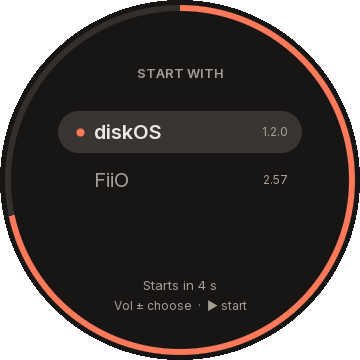
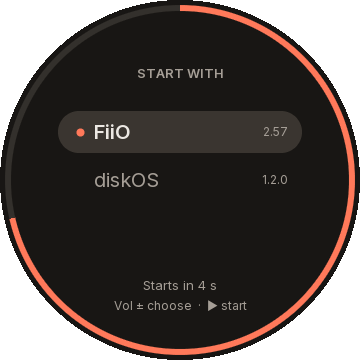
List FiiO's own interface first in the menu
The boot program offers stock first, then the installed interfaces, so the
menu does not look built around diskOS, a project of its own (owner,
2026-10-09). The default stays the last answer. The contract, test_boot and
menu_guest.py (which finds rows by their place on the screen) follow, and the
README's pictures show FiiO first and chosen.

Claude-Session: https://claude.ai/code/session_01Uk4XSRM8nsUCMZsZm2gSii

diff --git a/tests/integration/menu_guest.py b/tests/integration/menu_guest.py
@@ -127,12 +127,13 @@ def run(menu, output):
     status = asking()
     first = frame('after-play')
     choices = bg.guest_json('/run/disc-boot/ui/choices.json')
-    assert [e['ui'] for e in choices['entries']] == [ONE, TWO, 'stock'] and choices['default'] == ONE, choices
-    assert pixel(first, 70, 132) == (0x3a, 0x35, 0x30), 'the default, in the first row, in the pill'
+    # FiiO's own first (owner, 2026-10-09), then the UIs; the default is the first UI installed.
+    assert [e['ui'] for e in choices['entries']] == ['stock', ONE, TWO] and choices['default'] == ONE, choices
+    assert pixel(first, 70, 180) == (0x3a, 0x35, 0x30), 'the default, in the second row, in the pill'
     buttons.pulse(0xfc)
     time.sleep(1.5)
     moved = frame('volume-down')
-    assert pixel(moved, 70, 180) == (0x3a, 0x35, 0x30) and pixel(moved, 70, 132) != (0x3a, 0x35, 0x30), 'the pill moved down'
+    assert pixel(moved, 70, 228) == (0x3a, 0x35, 0x30) and pixel(moved, 70, 180) != (0x3a, 0x35, 0x30), 'the pill moved down'
     # After a start with Play the menu takes no Play gesture in its first 2 s (the recovery's own
     # release, reported when the key is let go): this Play comes after them.
     time.sleep(1.0)
@@ -154,7 +155,7 @@ def run(menu, output):
     assert choices['default'] == TWO, choices
     counting = frame('countdown')
     assert pixel(counting, 352, 180) == (0xff, 0x79, 0x5a), 'the ring runs down from the right'
-    assert pixel(counting, 70, 180) == (0x3a, 0x35, 0x30), 'the last answer, in the second row, in the pill'
+    assert pixel(counting, 70, 228) == (0x3a, 0x35, 0x30), 'the last answer, in the third row, in the pill'
     # The player starts 2 s after the menu and waits for its choice.
     waited = soon(lambda: run_json('ui/player.json'), lambda p: p['launch'] in ('waiting', 'package'), 'the player starts', 10)
     assert waited['launch'] == 'waiting', waited
@@ -165,11 +166,11 @@ def run(menu, output):
     player = bg.wait(lambda: bg.guest_json('/run/disc-boot/ui/player.json'), lambda p: p['launch'] == 'package', 'the player after the choice', 120)
     assert bg.pair_restarts() == restarts, ('stock restarted the pair', restarts, bg.pair_restarts())
     bg.step('the countdown starts the last answer', choices=choices, choice=choice, player=player, ui=ui)
-    # 3. A touch on the first row picks it, away from the default.
+    # 3. A touch on the first UI's row (the second, under FiiO's) picks it, away from the default.
     bg.power('off')
     booted = power_on()
     asking()
-    touch.tap(150, 132)
+    touch.tap(150, 180)
     booted()
     ui = bg.ui_runs(ONE)
     choice = bg.guest_json('/run/disc-boot/ui/choice.json')

diff --git a/device/boot/boot.c b/device/boot/boot.c
@@ -543,20 +543,22 @@ static int decide_ui(int consume_next) {
     return c.menu || strcmp(c.ui, "stock");
 }
 
-/* What the menu offers: every installed ui package (its title, or its name) and stock's UI with
-   the firmware profile's version, with this boot's default. */
+/* What the menu offers: stock's UI first, with the firmware profile's version (owner, 2026-10-09:
+   FiiO's own interface leads, the packages are additions to it), then every installed ui package
+   (its title, or its name), with this boot's default. */
 static void write_choices(const ui_choice *c) {
     char p[PATH_MAX], buf[SMALL_FILE], version[80], title[48];
     ui_entry list[MAX_UIS];
     int count = list_uis(list, MAX_UIS);
-    size_t o = (size_t)snprintf(buf, sizeof(buf), "{\"schema\":1,\"default\":\"%s\",\"entries\":[", c->ui);
+    size_t o = (size_t)snprintf(buf, sizeof(buf), "{\"schema\":1,\"default\":\"%s\",\"entries\":[{\"ui\":\"stock\",\"version\":\"%s\"}",
+                                c->ui, profile);
     for (int k = 0; k < count && o < sizeof(buf); k++) {
         json_str(version, sizeof(version), list[k].version);
         json_str(title, sizeof(title), list[k].title[0] ? list[k].title : list[k].name);
-        o += (size_t)snprintf(buf + o, sizeof(buf) - o, "{\"ui\":\"%s\",\"title\":%s,\"version\":%s,\"confirmed\":%s},",
+        o += (size_t)snprintf(buf + o, sizeof(buf) - o, ",{\"ui\":\"%s\",\"title\":%s,\"version\":%s,\"confirmed\":%s}",
                               list[k].name, title, version, list[k].confirmed ? "true" : "false");
     }
-    if (o < sizeof(buf)) o += (size_t)snprintf(buf + o, sizeof(buf) - o, "{\"ui\":\"stock\",\"version\":\"%s\"}]}\n", profile);
+    if (o < sizeof(buf)) o += (size_t)snprintf(buf + o, sizeof(buf) - o, "]}\n");
     if (o >= sizeof(buf)) return;
     bpath(p, RUN_DIR "/ui/choices.json");
     write_atomic(p, buf, o, 0644);

diff --git a/tests/conformance/test_boot.py b/tests/conformance/test_boot.py
@@ -891,7 +891,7 @@ exit 0
         self.assertEqual(self.runs(), ['menu'])
         offered = json.loads((self.root/'out/choices.json').read_text())
         self.assertEqual(offered['default'], 'alpha')
-        self.assertEqual([e['ui'] for e in offered['entries']], ['alpha', 'beta', 'stock'])
+        self.assertEqual([e['ui'] for e in offered['entries']], ['stock', 'alpha', 'beta'], 'FiiO\'s own first')
         # A player already ran in this boot (it runs the watchdog): stock's player starts beside the
         # menu at once, never a package's launcher while the choice is open.
         (self.run_dir/'player-ran').write_text('\n')
@@ -942,9 +942,9 @@ exit 0
         self.assertEqual(self.runs(), ['menu', 'beta'], self.boot_log())
         # The offer: each package's title (else its name) and version, stock's UI with the firmware's.
         offered = json.loads((self.root/'out/choices.json').read_text())['entries']
-        self.assertEqual(offered, [dict(ui='alpha', title='Alpha UI', version='1', confirmed=True),
-                                   dict(ui='beta', title='beta', version='1', confirmed=True),
-                                   dict(ui='stock', version=PROFILE)])
+        self.assertEqual(offered, [dict(ui='stock', version=PROFILE),
+                                   dict(ui='alpha', title='Alpha UI', version='1', confirmed=True),
+                                   dict(ui='beta', title='beta', version='1', confirmed=True)])
         player.wait(timeout=30)
         self.assertEqual(self.players(), ['launcher ui', f'stock ui {self.root}/opt/disc-boot/guard'])
         self.assertEqual({k: self.player_status()[k] for k in ('launch', 'name')}, {'launch': 'package', 'name': 'beta'})

diff --git a/scripts/menu_screens.py b/scripts/menu_screens.py
@@ -53,8 +53,9 @@ def scene(name, output, choices, install=None, keys=(), wait=0.6, countdown=6000
         (root/'fb0').write_bytes(bytes(PANEL * PANEL * 4 * 3))
         (root/'keys').write_bytes(b'')
         (root/'touch').write_bytes(b'')
-        entries = [dict(ui=ui, title=title, version=version, confirmed=True) for ui, title, version in choices[1]]
-        entries.append(dict(ui='stock', version='2.57'))
+        # As boot offers them (write_choices): FiiO's own first, then the installed UIs.
+        entries = [dict(ui='stock', version='2.57')]
+        entries += [dict(ui=ui, title=title, version=version, confirmed=True) for ui, title, version in choices[1]]
         (root/'status/ui/choices.json').write_text(json.dumps(dict(schema=1, default=choices[0], entries=entries)))
         if install:
             (root/'status/install.json').write_text(json.dumps(dict(schema=1, **install)))
@@ -79,7 +80,8 @@ def main():
     p.add_argument('--output', type=Path, default=ROOT/'docs/assets/menu')
     args = p.parse_args()
     args.output.mkdir(parents=True, exist_ok=True)
-    installed = ('diskos', [('diskos', 'diskOS', '1.2.0')])
+    # One interface beside FiiO's own (diskOS, a project of its own), FiiO's chosen last time.
+    installed = ('stock', [('diskos', 'diskOS', '1.2.0')])
     scene('choose', args.output, installed, wait=1.5, countdown=5000)
     scene('reading-the-card', args.output, installed, install=dict(state='waiting', done=0, total=0, current=None))
     scene('installing', args.output, installed, install=dict(state='installing', done=1, total=3, current='disc-menu'))

diff --git a/device/menu/menu.c b/device/menu/menu.c
@@ -76,7 +76,7 @@ static const char *env(const char *name, const char *fallback) {
     return v && v[0] ? v : fallback;
 }
 
-/* What boot offers (ui/choices.json): each installed ui package, then stock's UI shown as FiiO. */
+/* What boot offers (ui/choices.json): stock's UI first, shown as FiiO, then each installed ui package. */
 static int load_choices(const char *status) {
     char p[PATH_MAX], buf[SMALL_FILE], deflt[33] = "";
     size_t len;

diff --git a/docs/dev/plan.md b/docs/dev/plan.md
@@ -1529,11 +1529,14 @@ the only installer. Play at power-on stays the recovery path only.
   on the owner's player from a really new state: the first installation of
   the packages, a card without `.disc`.
 
-- [ ] FiiO's own interface first in the menu's list (owner, 2026-10-09): the
+- [x] FiiO's own interface first in the menu's list (owner, 2026-10-09): the
   menu offers stock first, then the installed interfaces, so the project does
   not look built around diskOS, a project of its own (today the boot program
   lists the packages first and stock last: `ui/choices.json`). The default
-  stays the last answer; the README's picture of the menu drawn again.
+  stays the last answer; the README's picture of the menu drawn again. Done
+  2026-10-09: `write_choices` lists stock first (the contract says so),
+  `test_boot` and `menu_guest.py` (rows by position) follow, the pictures
+  show FiiO first and chosen. On the guest with release 2.57.6.
 - [ ] `release.py installer` downloads into a folder it creates (2026-10-09:
   on the tag v2.57.5 the release workflow found no folder to download the
   server and Disc Player into, since every local build had been given them

diff --git a/docs/dev/contract.md b/docs/dev/contract.md
@@ -509,9 +509,10 @@ menu's `stock` entry is stock's UI with the `service` package running.
 
 - In `platform` mode, with a menu installed and no choice by `next`, the
   `mq_ui` launcher starts the menu first. `/run/disc-boot/ui/choices.json`
-  lists every installed `ui` package (`ui`, `title` or else its name,
-  `version`, `confirmed`), then `{"ui": "stock", "version": "<firmware
-  profile>"}`, and the `default` of this boot.
+  lists `{"ui": "stock", "version": "<firmware profile>"}` first (owner,
+  2026-10-09: FiiO's own interface leads), then every installed `ui` package
+  (`ui`, `title` or else its name, `version`, `confirmed`), and the
+  `default` of this boot.
 - The menu writes `$DISC_BOOT_RUN/choice` (`{"ui": "<name>"|"stock"}`)
   atomically and hands over (owner, 2026-10-03): it execs
   `$DISC_BOOT_LAUNCHER`, the UI launcher, in its own process, which checks

diff --git a/README.md b/README.md
@@ -14,7 +14,7 @@ writes the player's system memory over USB; read [the risk](docs/install.md#the-
 [Changelog](CHANGELOG.md) · [Releases](https://github.com/eudj1n/snowsky-disc-boot/releases)
 
 <p align="center">
-  <img src="docs/assets/menu/choose.png" width="240" alt="The boot menu on the player's round screen: Start with diskOS 1.2.0 or FiiO 2.57, starting in 4 seconds">
+  <img src="docs/assets/menu/choose.png" width="240" alt="The boot menu on the player's round screen: Start with FiiO 2.57 or diskOS 1.2.0, starting in 4 seconds">
   &nbsp;&nbsp;
   <img src="docs/assets/menu/installing.png" width="240" alt="The boot menu installing disc-menu from the card, 2 of 3">
 </p>
